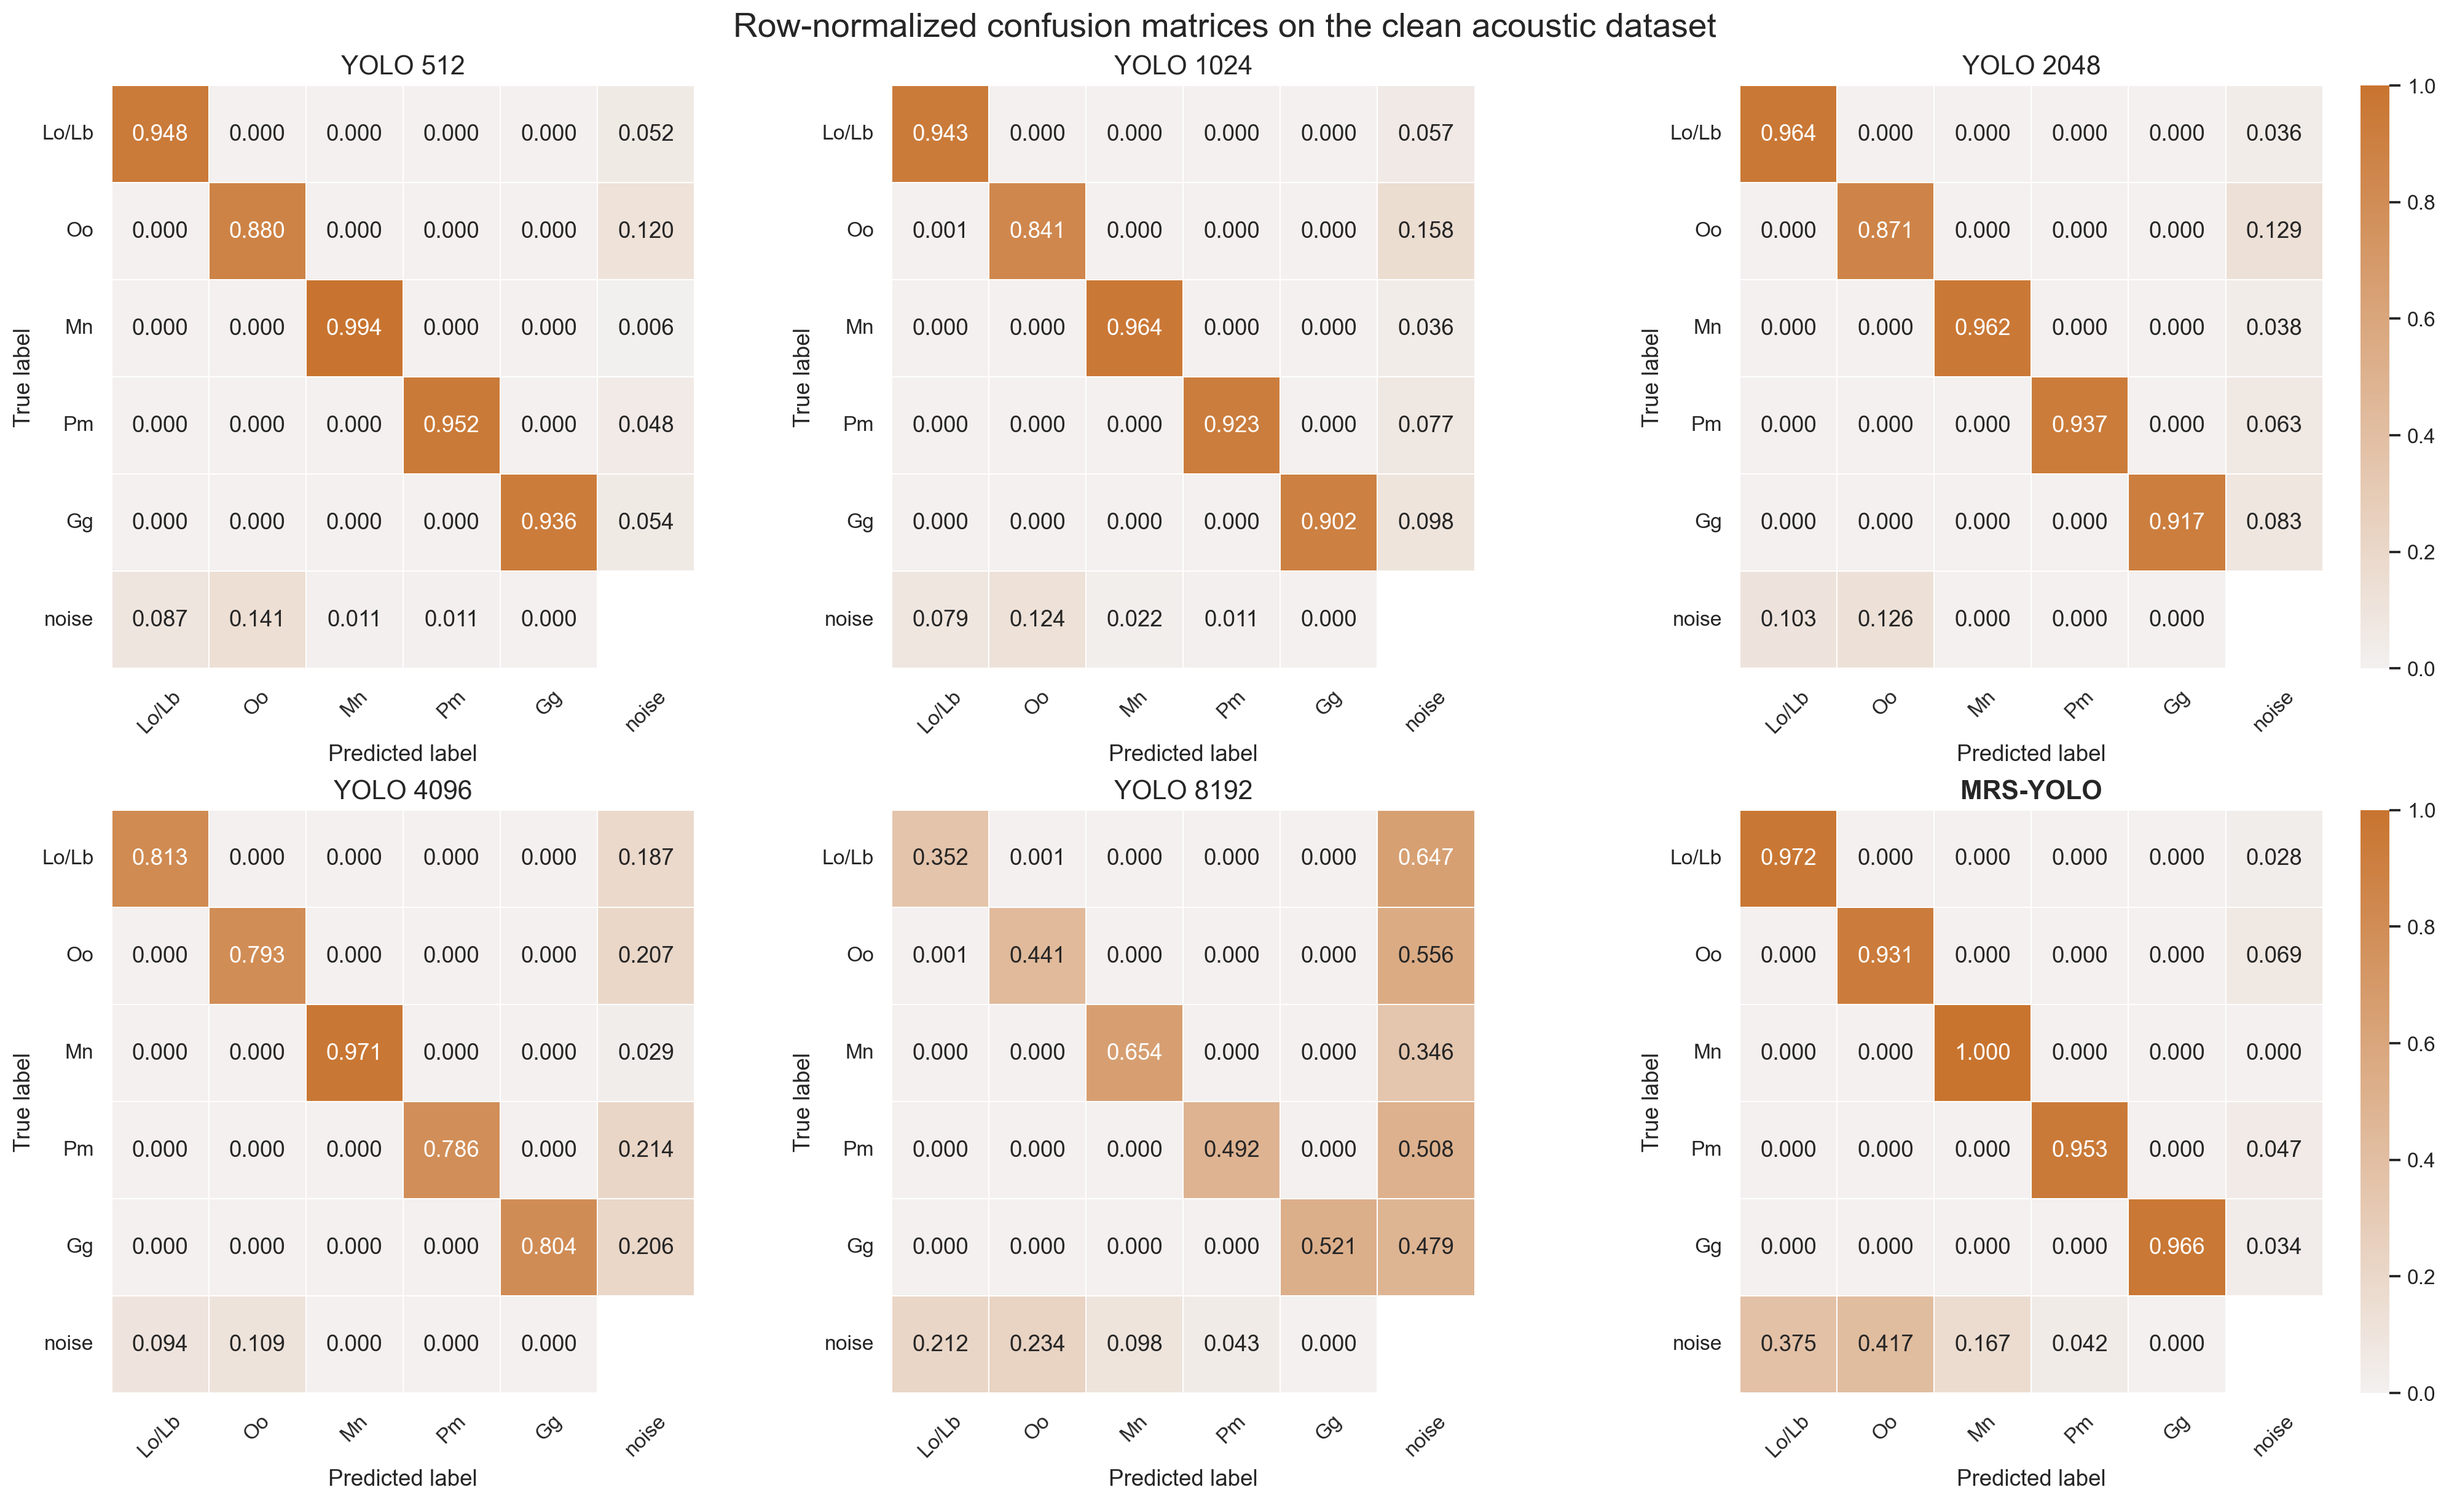
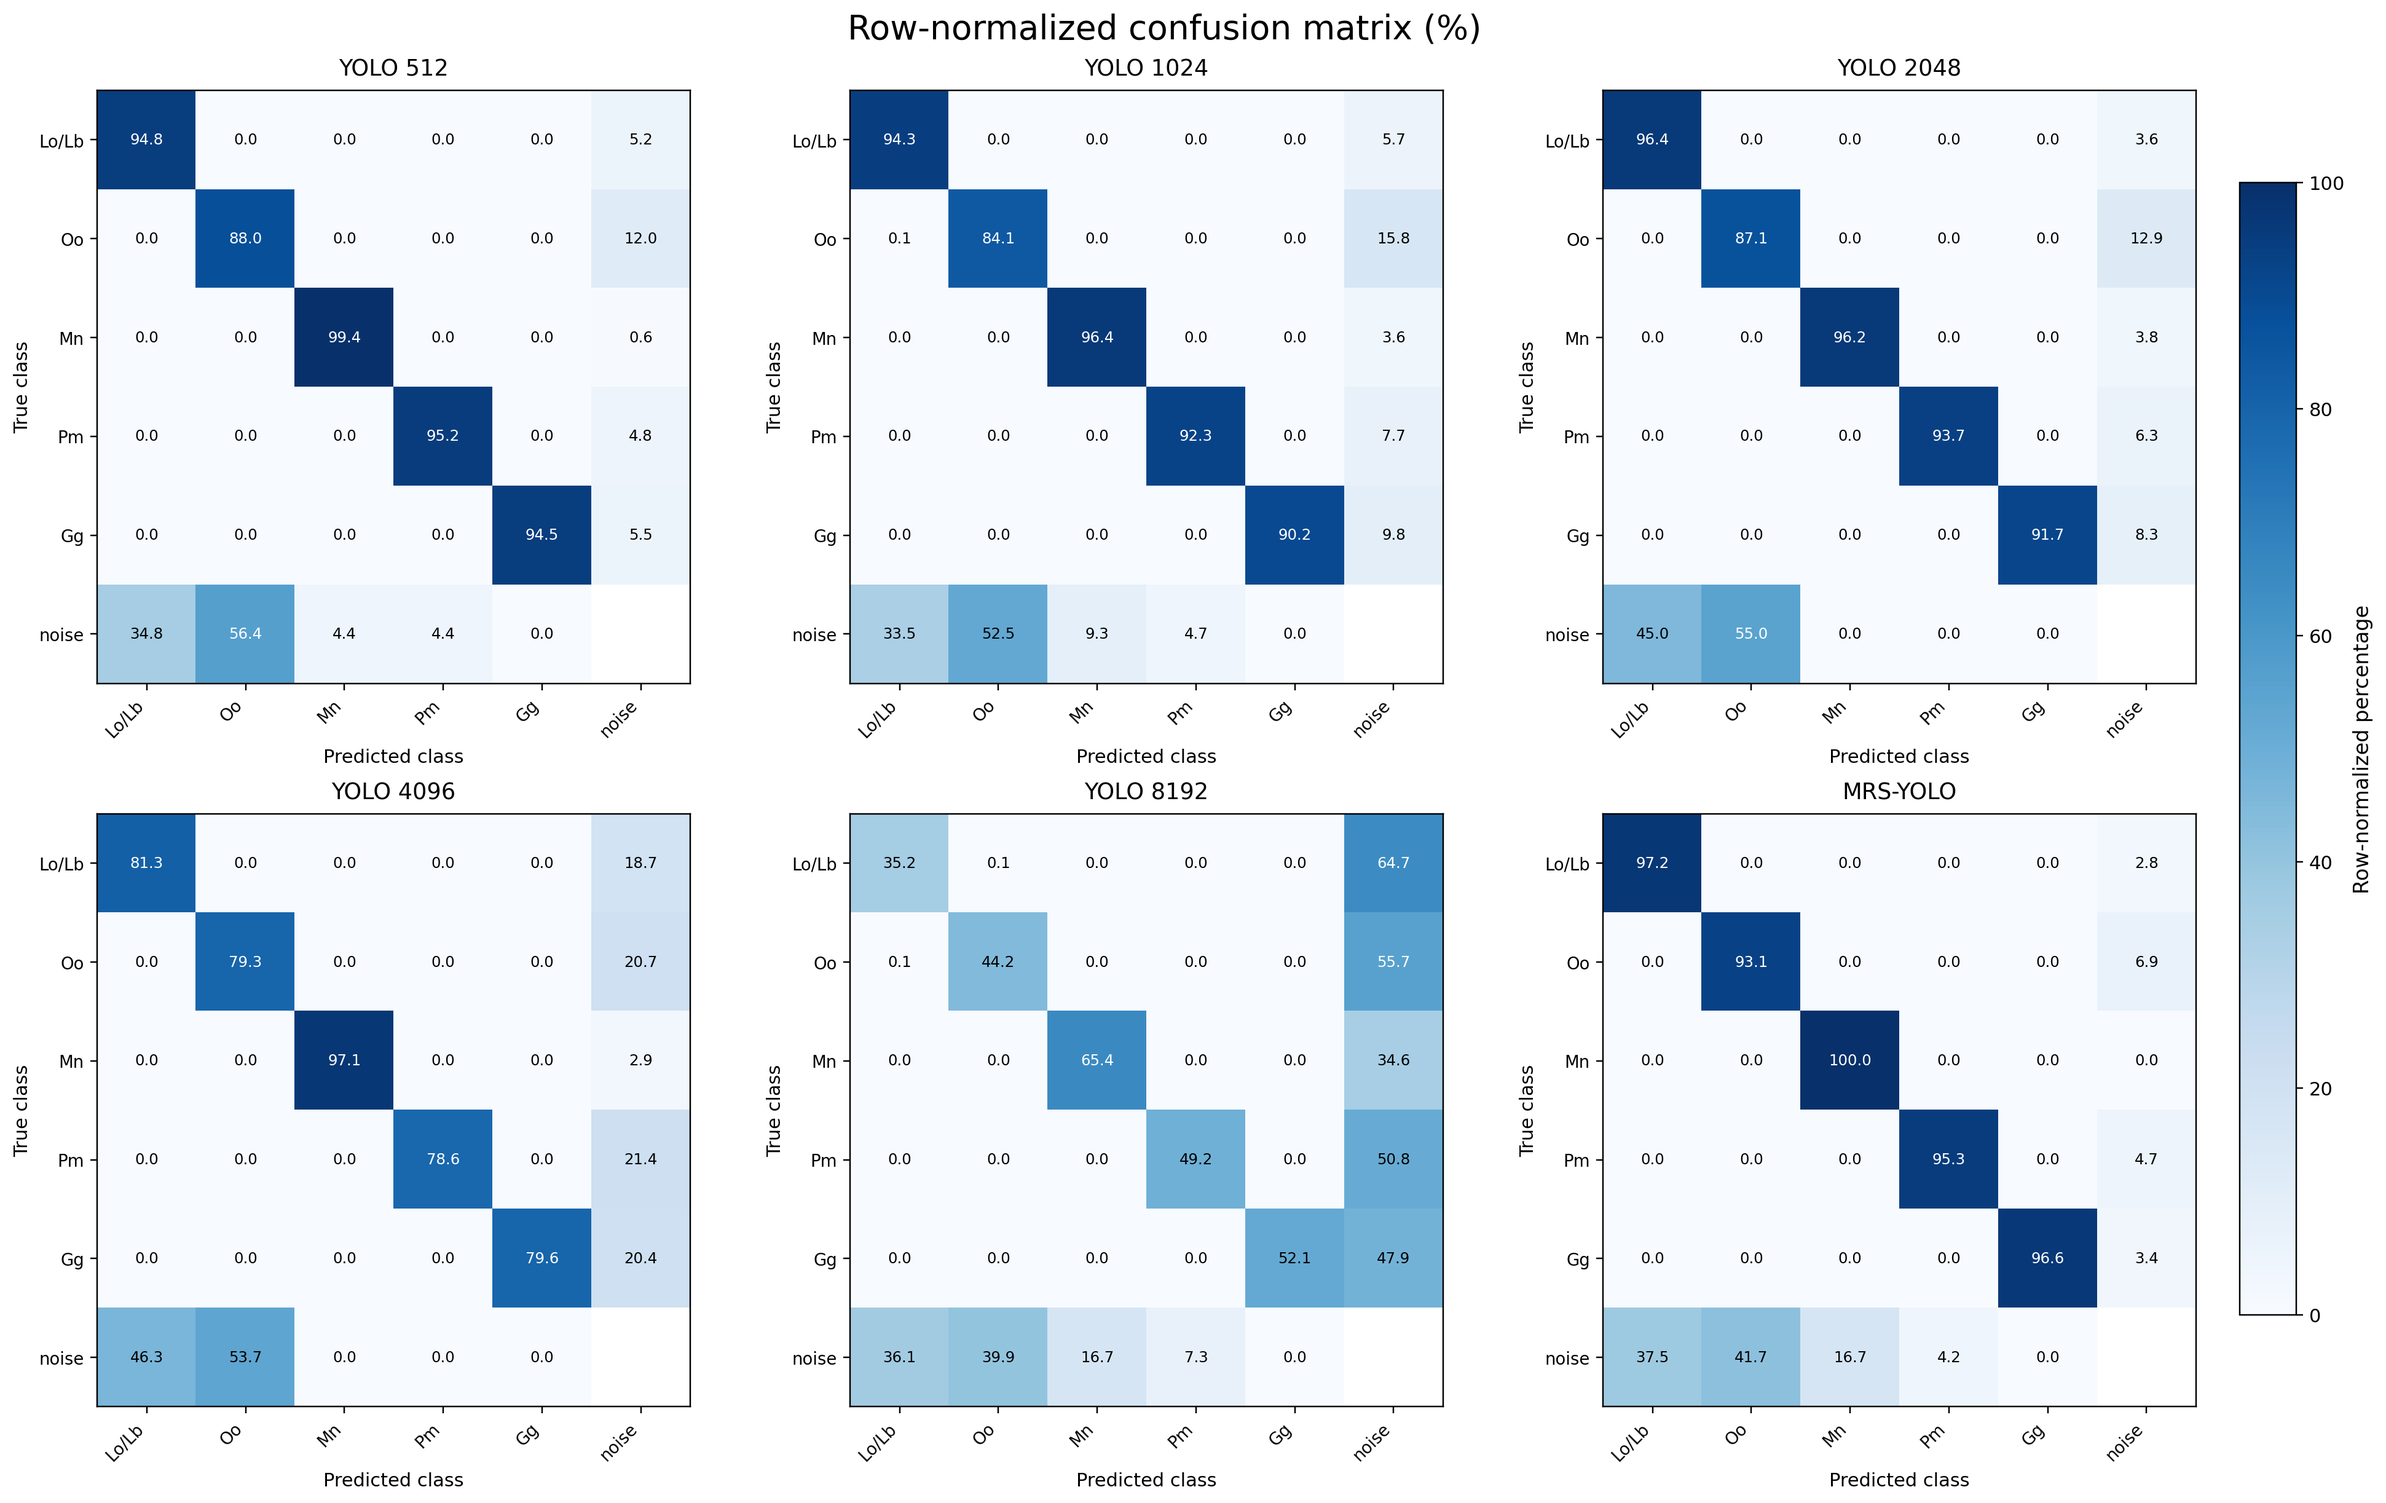
Update acoustic confusion matrix figure

diff --git a/icml_reviewer_responses/real_acoustic_data_results.md b/icml_reviewer_responses/real_acoustic_data_results.md
@@ -81,7 +81,7 @@ Relative to the best single-resolution configuration for each class, `MRS-YOLO` 
 
 Overall, the multi-resolution model provides consistent gains for the five biological classes, particularly for *Orcinus orca*, while maintaining near-perfect discrimination for *Megaptera novaeangliae*. 
 
-![Row-normalized confusion matrices](assets/acoustic_confusion_matrices_clean.png)
+![Row-normalized confusion matrix](assets/acoustic_confusion_matrices_clean.png)
 
 ## Processing Time
 
